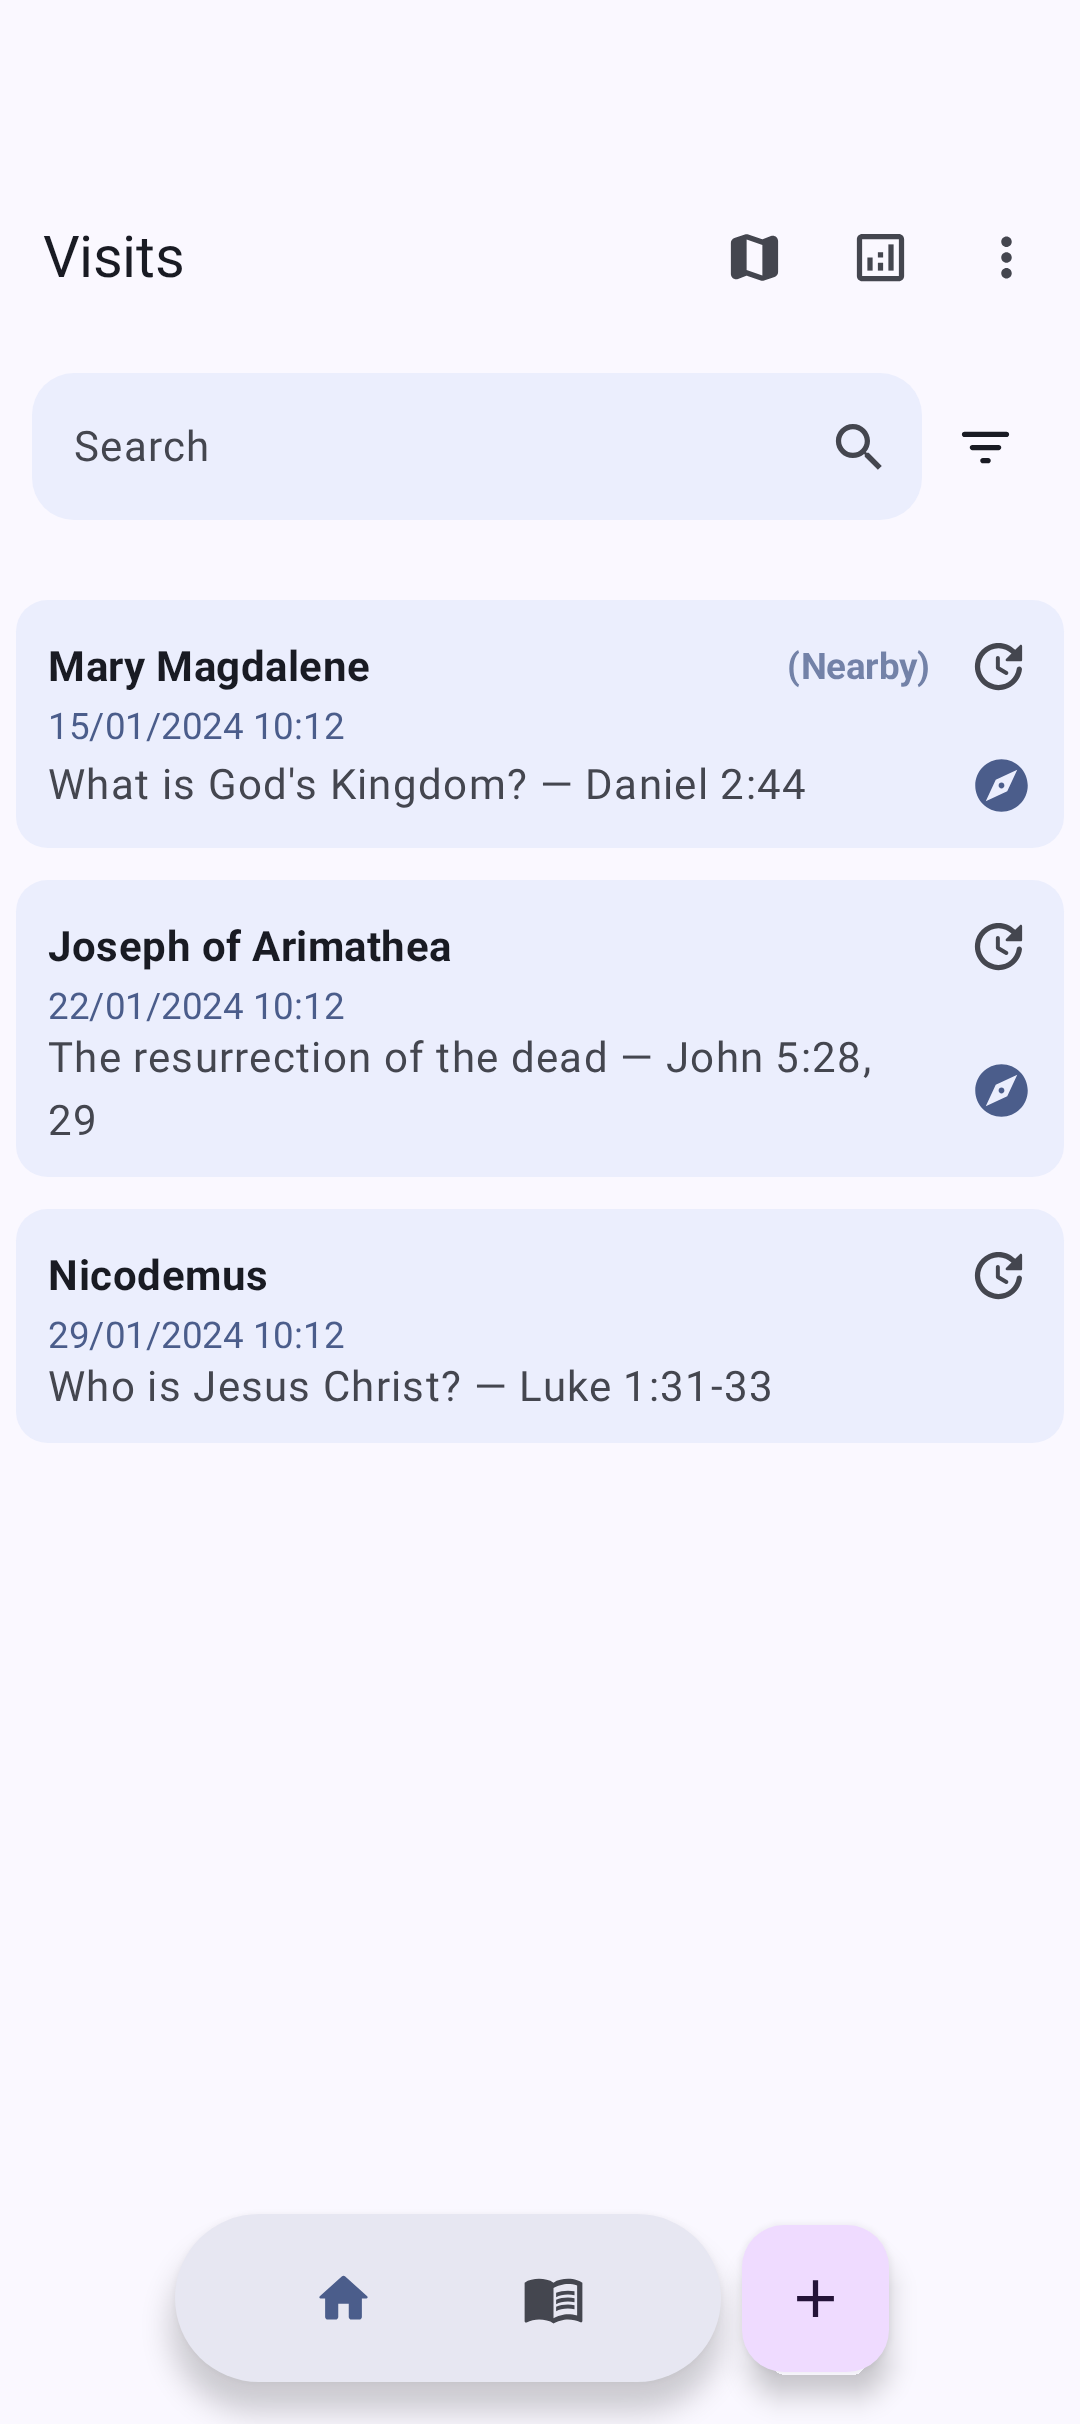
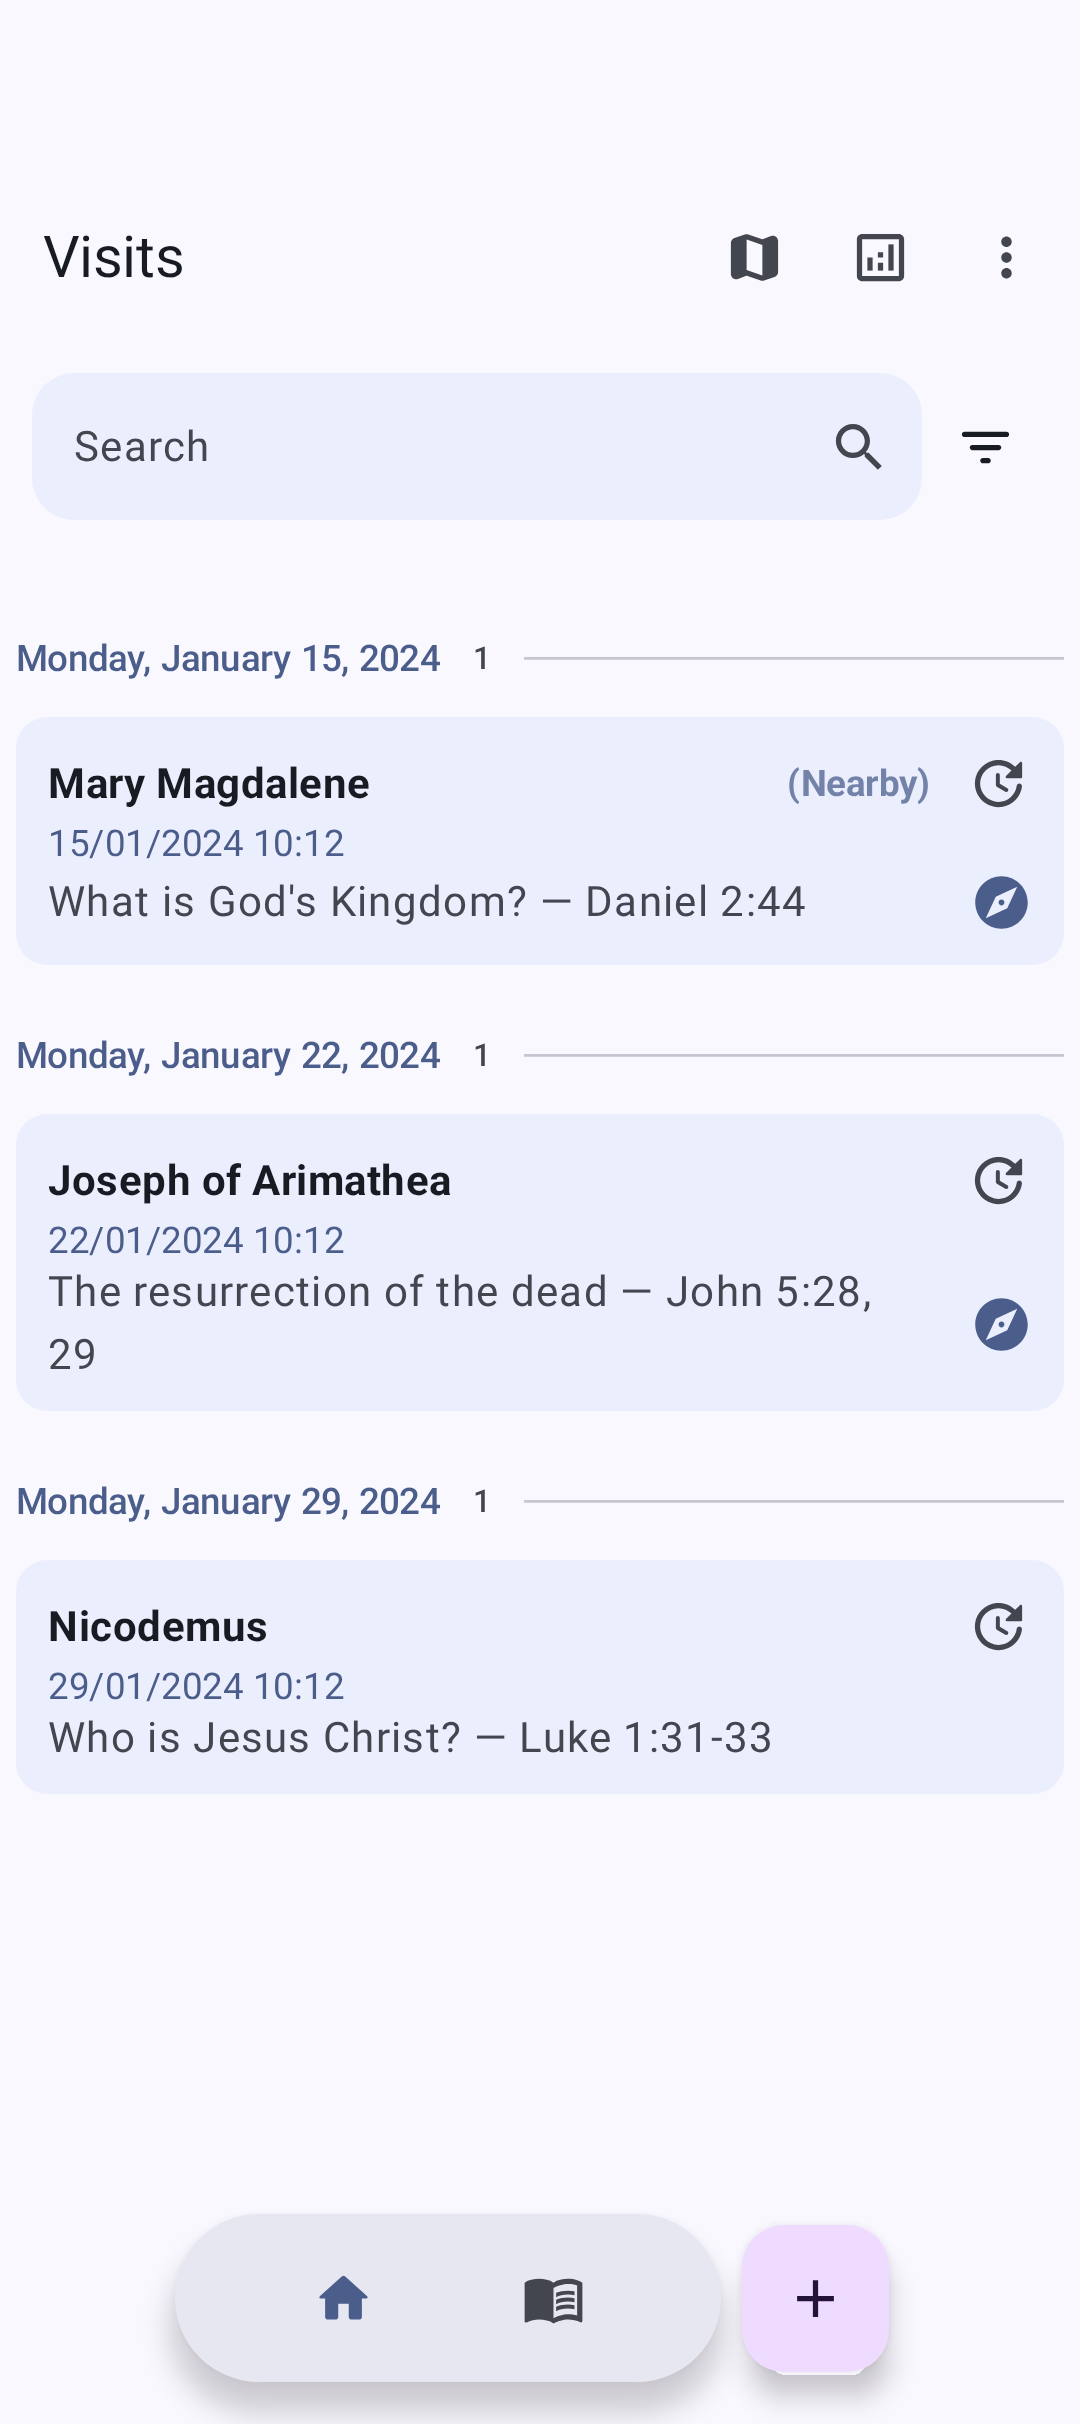
Group the visit list into time-of-day and date sections
With a single-day filter (Today, Tomorrow) and no search, the list is split
into Morning / Afternoon / Evening by each visit's own time. Otherwise it is
split into one section per day. Drafts keep leading the list in a section of
their own. Each header shows the label, the visit count and a rule.

Period boundaries come from VisitTimeValidator.periodOf, which shares the
preferred-time ranges so both agree; hours outside them fold into morning or
evening.

diff --git a/app/src/main/java/com/msmobile/visitas/visit/VisitListScreen.kt b/app/src/main/java/com/msmobile/visitas/visit/VisitListScreen.kt
@@ -69,6 +69,8 @@ import androidx.compose.ui.Modifier
 import androidx.compose.ui.graphics.Color
 import androidx.compose.ui.graphics.vector.ImageVector
 import androidx.compose.ui.platform.LocalConfiguration
+import androidx.compose.ui.semantics.heading
+import androidx.compose.ui.semantics.semantics
 import androidx.compose.ui.platform.LocalContext
 import androidx.compose.ui.res.stringResource
 import androidx.compose.ui.text.font.FontWeight
@@ -127,6 +129,8 @@ import com.ramcosta.composedestinations.spec.Direction
 import kotlinx.coroutines.delay
 import java.time.DayOfWeek
 import java.time.LocalDateTime
+import java.time.format.DateTimeFormatter
+import java.time.format.FormatStyle
 import java.util.UUID
 
 private const val LOADING_VISITS_COUNT = 5
@@ -609,6 +613,10 @@ private fun VisitsList(
     val visitList = visitListUiState.visitList.filter { !it.hide }
     val isLoadingVisits = visitListUiState.isLoadingVisits
     val showNearbyVisits = visitListUiState.showNearbyVisits
+    val groupByPeriod = visitListUiState.groupsVisitsByPeriod
+    val sections = remember(visitList, groupByPeriod) {
+        visitList.toSections(groupByPeriod = groupByPeriod)
+    }
 
     LaunchedEffect(key1 = null) {
         onVisitListEvent(VisitListViewModel.UiEvent.ViewCreated)
@@ -650,22 +658,86 @@ private fun VisitsList(
                         }
                     }
                 } else {
-                    items(
-                        items = visitList,
-                        key = { visit -> visit.visitId }) { visit ->
-                        VisitCard(
-                            visit = visit,
-                            isLoading = false,
-                            showNearbyVisits = showNearbyVisits,
-                            onEvent = onVisitListEvent,
-                            onNavigate = onNavigate
-                        )
+                    sections.forEach { section ->
+                        item(key = section.header.key) {
+                            VisitSectionHeader(section = section)
+                        }
+                        items(
+                            items = section.visits,
+                            key = { visit -> visit.visitId }) { visit ->
+                            VisitCard(
+                                visit = visit,
+                                isLoading = false,
+                                showNearbyVisits = showNearbyVisits,
+                                onEvent = onVisitListEvent,
+                                onNavigate = onNavigate
+                            )
+                        }
                     }
                 }
             }
         }
     }
 }
+
+/**
+ * Title row above a run of cards: the section name, how many visits it holds, and a rule running
+ * to the edge so the break between sections reads even while scrolling fast.
+ */
+@Composable
+private fun VisitSectionHeader(section: VisitListSection) {
+    Row(
+        modifier = Modifier
+            .fillMaxWidth()
+            .padding(top = verticalFieldPadding)
+            .semantics(mergeDescendants = true) { heading() },
+        verticalAlignment = Alignment.CenterVertically,
+        horizontalArrangement = Arrangement.spacedBy(horizontalFieldPadding)
+    ) {
+        Text(
+            text = section.header.label(),
+            style = MaterialTheme.typography.titleSmall,
+            color = MaterialTheme.colorScheme.primary
+        )
+        Text(
+            text = section.visits.size.toString(),
+            style = MaterialTheme.typography.labelMedium,
+            color = MaterialTheme.colorScheme.onSurfaceVariant
+        )
+        HorizontalDivider(
+            modifier = Modifier.weight(1f),
+            color = MaterialTheme.colorScheme.outlineVariant
+        )
+    }
+}
+
+@Composable
+private fun VisitListSection.Header.label(): String {
+    return when (this) {
+        VisitListSection.Header.Drafts -> stringResource(R.string.visit_list_section_drafts)
+        is VisitListSection.Header.Period -> when (period) {
+            VisitPreferredTime.MORNING -> stringResource(R.string.preferred_time_morning)
+            VisitPreferredTime.AFTERNOON -> stringResource(R.string.preferred_time_afternoon)
+            VisitPreferredTime.EVENING -> stringResource(R.string.preferred_time_evening)
+            VisitPreferredTime.ANY -> stringResource(R.string.preferred_time_any)
+        }
+
+        is VisitListSection.Header.Day -> {
+            val locale = LocalConfiguration.current.locales[0]
+            remember(date, locale) {
+                DateTimeFormatter.ofLocalizedDate(FormatStyle.FULL).withLocale(locale).format(date)
+            }
+        }
+    }
+}
+
+/** Lazy-list key for a section header; must be saveable, so a plain string. */
+private val VisitListSection.Header.key: String
+    get() = when (this) {
+        VisitListSection.Header.Drafts -> "section-drafts"
+        is VisitListSection.Header.Period -> "section-period-${period.name}"
+        is VisitListSection.Header.Day -> "section-day-$date"
+    }
 
 @Composable
 fun VisitCardSkeleton() {

diff --git a/app/src/test/java/com/msmobile/visitas/visit/VisitListSectionTest.kt b/app/src/test/java/com/msmobile/visitas/visit/VisitListSectionTest.kt
@@ -1,0 +1,123 @@
+package com.msmobile.visitas.visit
+
+import com.msmobile.visitas.util.AddressProvider
+import junit.framework.TestCase.assertEquals
+import junit.framework.TestCase.assertTrue
+import org.junit.Test
+import java.time.LocalDate
+import java.time.LocalDateTime
+import java.time.LocalTime
+import java.util.UUID
+
+class VisitListSectionTest {
+
+    @Test
+    fun `periodOf splits the day at noon and six pm`() {
+        assertEquals(VisitPreferredTime.MORNING, VisitTimeValidator.periodOf(LocalTime.of(11, 59)))
+        assertEquals(VisitPreferredTime.AFTERNOON, VisitTimeValidator.periodOf(LocalTime.of(12, 0)))
+        assertEquals(VisitPreferredTime.AFTERNOON, VisitTimeValidator.periodOf(LocalTime.of(17, 59)))
+        assertEquals(VisitPreferredTime.EVENING, VisitTimeValidator.periodOf(LocalTime.of(18, 0)))
+    }
+
+    @Test
+    fun `periodOf folds late night into evening and early hours into morning`() {
+        assertEquals(VisitPreferredTime.MORNING, VisitTimeValidator.periodOf(LocalTime.MIDNIGHT))
+        assertEquals(VisitPreferredTime.MORNING, VisitTimeValidator.periodOf(LocalTime.of(5, 59)))
+        assertEquals(VisitPreferredTime.EVENING, VisitTimeValidator.periodOf(LocalTime.of(22, 0)))
+        assertEquals(VisitPreferredTime.EVENING, VisitTimeValidator.periodOf(LocalTime.of(23, 59)))
+    }
+
+    @Test
+    fun `toSections by period orders morning, afternoon, evening and keeps incoming order within`() {
+        // Arrange — incoming order is the view model's (nearby first), not chronological
+        val evening = visit(at(19, 0))
+        val lateMorning = visit(at(11, 0))
+        val afternoon = visit(at(14, 0))
+        val earlyMorning = visit(at(9, 0))
+
+        // Act
+        val sections = listOf(evening, lateMorning, afternoon, earlyMorning)
+            .toSections(groupByPeriod = true)
+
+        // Assert
+        assertEquals(
+            listOf(
+                VisitListSection.Header.Period(VisitPreferredTime.MORNING),
+                VisitListSection.Header.Period(VisitPreferredTime.AFTERNOON),
+                VisitListSection.Header.Period(VisitPreferredTime.EVENING)
+            ),
+            sections.map { it.header }
+        )
+        assertEquals(listOf(lateMorning, earlyMorning), sections[0].visits)
+    }
+
+    @Test
+    fun `toSections leaves out periods with no visits`() {
+        val sections = listOf(visit(at(9, 0)), visit(at(20, 0))).toSections(groupByPeriod = true)
+
+        assertEquals(
+            listOf(
+                VisitListSection.Header.Period(VisitPreferredTime.MORNING),
+                VisitListSection.Header.Period(VisitPreferredTime.EVENING)
+            ),
+            sections.map { it.header }
+        )
+    }
+
+    @Test
+    fun `toSections puts drafts first in their own section in both modes`() {
+        val draft = visit(at(20, 0), hasDrafts = true)
+        val regular = visit(at(9, 0))
+
+        listOf(true, false).forEach { groupByPeriod ->
+            val sections = listOf(regular, draft).toSections(groupByPeriod = groupByPeriod)
+
+            assertEquals(VisitListSection.Header.Drafts, sections.first().header)
+            assertEquals(listOf(draft), sections.first().visits)
+            assertTrue(sections.drop(1).none { draft in it.visits })
+        }
+    }
+
+    @Test
+    fun `toSections by date gives one chronological section per day`() {
+        val dayTwo = visit(LocalDateTime.of(2026, 9, 21, 9, 0))
+        val dayOneLate = visit(LocalDateTime.of(2026, 9, 20, 19, 0))
+        val dayOneEarly = visit(LocalDateTime.of(2026, 9, 20, 8, 0))
+
+        val sections = listOf(dayTwo, dayOneLate, dayOneEarly).toSections(groupByPeriod = false)
+
+        assertEquals(
+            listOf(
+                VisitListSection.Header.Day(LocalDate.of(2026, 9, 20)),
+                VisitListSection.Header.Day(LocalDate.of(2026, 9, 21))
+            ),
+            sections.map { it.header }
+        )
+        assertEquals(listOf(dayOneLate, dayOneEarly), sections[0].visits)
+    }
+
+    @Test
+    fun `toSections of an empty list is empty`() {
+        assertTrue(emptyList<VisitListViewModel.VisitHouseholderState>().toSections(true).isEmpty())
+    }
+
+    private fun at(hour: Int, minute: Int) = LocalDateTime.of(2026, 9, 19, hour, minute)
+
+    private fun visit(date: LocalDateTime, hasDrafts: Boolean = false) =
+        VisitListViewModel.VisitHouseholderState(
+            visitId = UUID.randomUUID(),
+            subject = "",
+            subjectPreview = "",
+            date = date,
+            isDone = false,
+            hasDrafts = hasDrafts,
+            householderId = UUID.randomUUID(),
+            householderName = "",
+            householderAddressDistance = AddressProvider.AddressDistance.NoData,
+            householderAddressState = VisitListViewModel.HouseholderAddressState.NoData,
+            hide = false,
+            isPendingVisitMenuExpanded = false,
+            hasToBeRescheduled = false,
+            type = VisitType.FIRST_VISIT
+        )
+}

diff --git a/app/src/main/java/com/msmobile/visitas/visit/VisitListSection.kt b/app/src/main/java/com/msmobile/visitas/visit/VisitListSection.kt
@@ -1,0 +1,48 @@
+package com.msmobile.visitas.visit
+
+import java.time.LocalDate
+
+/**
+ * A titled run of cards in the visit list. The list is split into sections so it can be scanned
+ * at a glance: by period of the day when it shows a single day, by date otherwise.
+ */
+data class VisitListSection(
+    val header: Header,
+    val visits: List<VisitListViewModel.VisitHouseholderState>
+) {
+    sealed interface Header {
+        data object Drafts : Header
+        data class Period(val period: VisitPreferredTime) : Header
+        data class Day(val date: LocalDate) : Header
+    }
+}
+
+/**
+ * Splits already-sorted, visible visits into sections.
+ *
+ * Drafts always come first in a section of their own, keeping the list's guarantee that drafts
+ * lead the list (see the sort in `VisitListViewModel.filterBy`). The remaining visits go into
+ * morning / afternoon / evening sections when [groupByPeriod] is set, or into one section per day
+ * otherwise, in chronological order. Within a section the incoming order is kept, so nearby visits
+ * still sort first. Empty sections are left out.
+ */
+fun List<VisitListViewModel.VisitHouseholderState>.toSections(
+    groupByPeriod: Boolean
+): List<VisitListSection> {
+    val (drafts, others) = partition { visit -> visit.hasDrafts }
+    val draftSection = if (drafts.isEmpty()) {
+        emptyList()
+    } else {
+        listOf(VisitListSection(VisitListSection.Header.Drafts, drafts))
+    }
+    val otherSections = if (groupByPeriod) {
+        others.groupBy { visit -> VisitTimeValidator.periodOf(visit.date.toLocalTime()) }
+            .toSortedMap()
+            .map { (period, visits) -> VisitListSection(VisitListSection.Header.Period(period), visits) }
+    } else {
+        others.groupBy { visit -> visit.date.toLocalDate() }
+            .toSortedMap()
+            .map { (date, visits) -> VisitListSection(VisitListSection.Header.Day(date), visits) }
+    }
+    return draftSection + otherSections
+}

diff --git a/app/src/main/java/com/msmobile/visitas/visit/VisitListViewModel.kt b/app/src/main/java/com/msmobile/visitas/visit/VisitListViewModel.kt
@@ -932,12 +932,23 @@ constructor(
         val previewBackupFileState: PreviewBackupFileState,
         val visitMapEngine: VisitMapEngineOption = VisitMapEngineOption.MapLibre,
         val addressOptionsSheet: HouseholderAddressState.Data? = null
-    )
+    ) {
+        /**
+         * Whether the list is split by period of the day rather than by date. Only a single-day
+         * filter shows one day; a name search overrides the date filter and can match any day.
+         */
+        val groupsVisitsByPeriod: Boolean
+            get() = filter.search.isEmpty() && selectedVisitFilterOption in SINGLE_DAY_FILTER_OPTIONS
+    }
 
     companion object {
         private val INITIAL_ROUTE_CALC_INTERNAL = 0.seconds
         private val SUBSEQUENT_ROUTE_CALC_INTERVAL = 2.seconds
         private val ROUTE_CALC_IDLE_THRESHOLD = 30.seconds
         private val LOADING_STATE_UPDATE_DEBOUNCE = 300.milliseconds
+        private val SINGLE_DAY_FILTER_OPTIONS = setOf(
+            VisitListDateFilterOption.ScheduledForToday,
+            VisitListDateFilterOption.ScheduledForTomorrow
+        )
     }
 }

diff --git a/app/src/main/java/com/msmobile/visitas/visit/VisitTimeValidator.kt b/app/src/main/java/com/msmobile/visitas/visit/VisitTimeValidator.kt
@@ -33,6 +33,22 @@ object VisitTimeValidator {
         return isDayValid && isTimeValid
     }
 
+    /**
+     * The period of the day [time] falls into, for grouping visits by time of day. Never returns
+     * [VisitPreferredTime.ANY].
+     *
+     * Shares its boundaries with the preferred-time ranges, but unlike them it covers the whole
+     * day: the hours before [MORNING_RANGE] count as morning, the hours after [EVENING_RANGE] as
+     * evening, so every visit lands in a period.
+     */
+    fun periodOf(time: LocalTime): VisitPreferredTime {
+        return when {
+            time < AFTERNOON_RANGE.start -> VisitPreferredTime.MORNING
+            time < EVENING_RANGE.start -> VisitPreferredTime.AFTERNOON
+            else -> VisitPreferredTime.EVENING
+        }
+    }
+
     private fun isDayValid(dayOfWeek: DayOfWeek, preferredDay: VisitPreferredDay): Boolean {
         return when (preferredDay) {
             VisitPreferredDay.ANY -> true

diff --git a/app/src/main/java/com/msmobile/visitas/visit/VisitListPreviewConfigProvider.kt b/app/src/main/java/com/msmobile/visitas/visit/VisitListPreviewConfigProvider.kt
@@ -138,6 +138,19 @@ internal class VisitListPreviewConfigProvider : PreviewParameterProvider<VisitLi
                     previewVisitListUiState.visitList[2].copy(hasDrafts = true),
                 )
             )
+        ),
+        VisitListPreviewConfig(
+            configName = "Today by time of day",
+            mainActivityUiState = previewMainActivityUiState,
+            summaryUiState = previewSummaryUiState,
+            visitListUiState = previewVisitListUiState.copy(
+                selectedVisitFilterOption = VisitListDateFilterOption.ScheduledForToday,
+                visitList = listOf(
+                    previewVisitListUiState.visitList[0].copy(date = previewDate1.withHour(9)),
+                    previewVisitListUiState.visitList[1].copy(date = previewDate1.withHour(14)),
+                    previewVisitListUiState.visitList[2].copy(date = previewDate1.withHour(19)),
+                )
+            )
         )
     )
 
